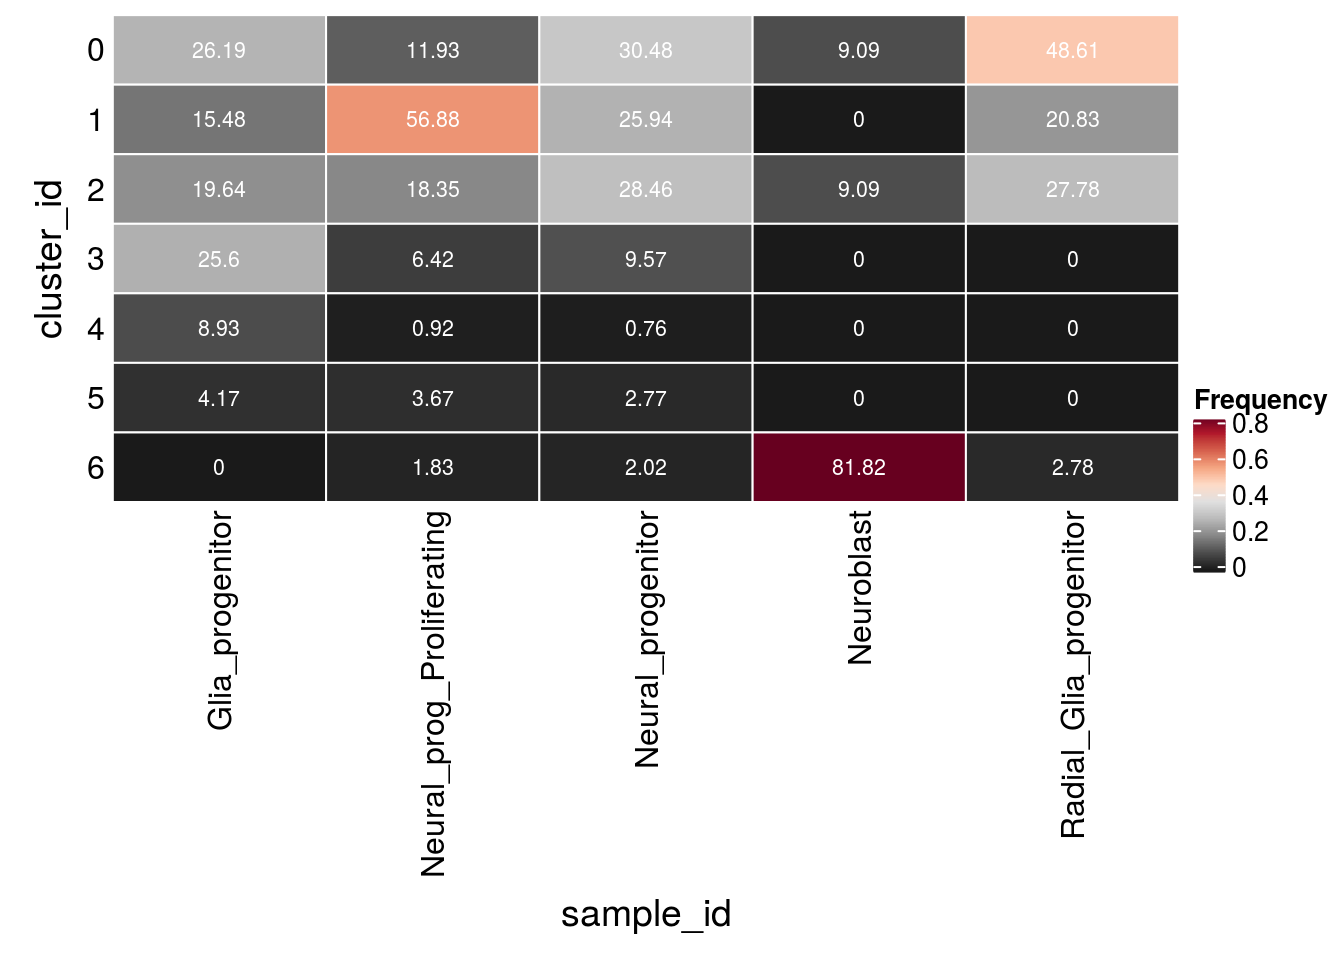
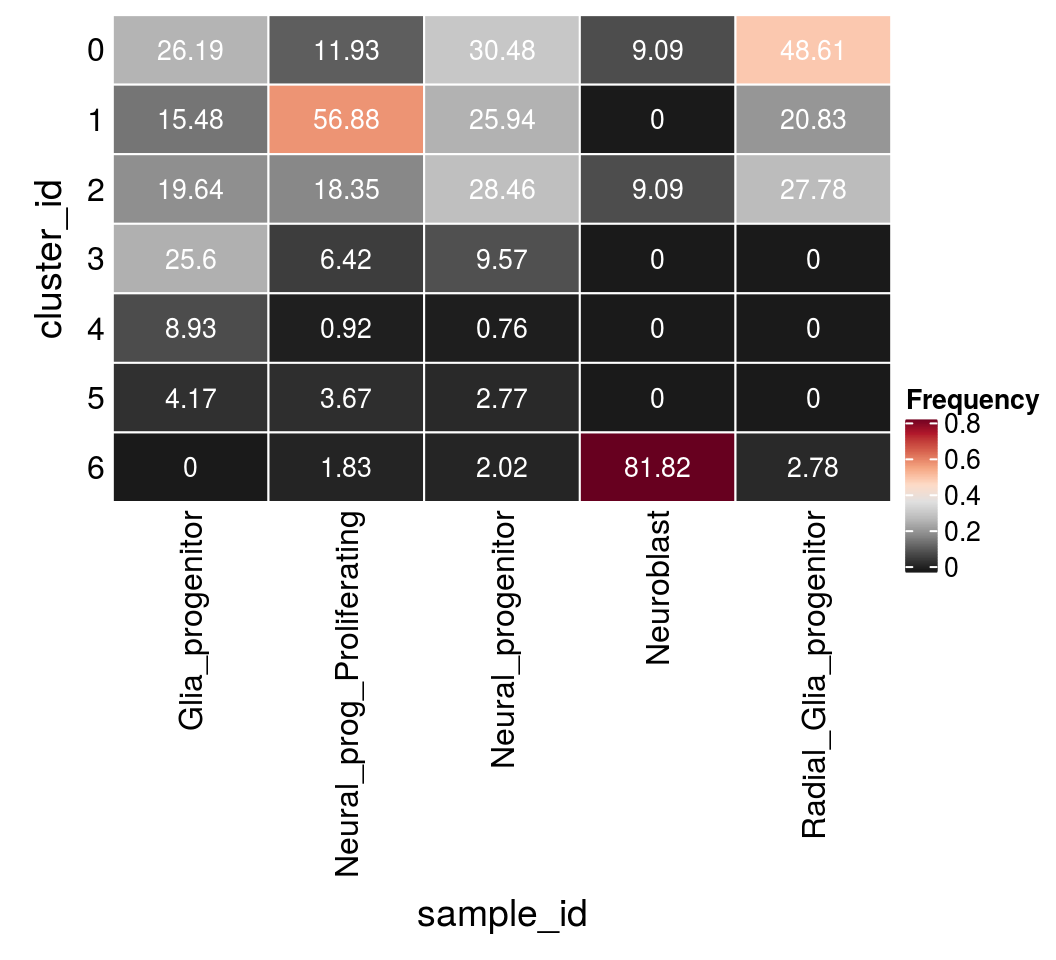
Build site.

diff --git a/docs/Lam-02-NSC_annotation.html b/docs/Lam-02-NSC_annotation.html
@@ -412,7 +412,7 @@ div.tocify {
 <div class="tab-content">
 <div id="summary" class="tab-pane fade in active">
 <p>
-<strong>Last updated:</strong> 2020-07-10
+<strong>Last updated:</strong> 2020-08-07
 </p>
 <p>
 <strong>Checks:</strong> <span class="glyphicon glyphicon-ok text-success" aria-hidden="true"></span> 7 <span class="glyphicon glyphicon-exclamation-sign text-danger" aria-hidden="true"></span> 0
@@ -503,16 +503,16 @@ This reproducible <a href="http://rmarkdown.rstudio.com">R Markdown</a> analysis
 <div class="panel panel-default">
 <div class="panel-heading">
 <p class="panel-title">
-<a data-toggle="collapse" data-parent="#workflowr-checks" href="#strongRepositoryversionstrongahrefhttpsgithubcomkhembachneuralscRNAseqtree15a0ad2b03e78da5eb656f26afde3f4463ebb7fftargetblank15a0ad2a"> <span class="glyphicon glyphicon-ok text-success" aria-hidden="true"></span> <strong>Repository version:</strong> <a href="https://github.com/khembach/neural_scRNAseq/tree/15a0ad2b03e78da5eb656f26afde3f4463ebb7ff" target="_blank">15a0ad2</a> </a>
+<a data-toggle="collapse" data-parent="#workflowr-checks" href="#strongRepositoryversionstrongahrefhttpsgithubcomkhembachneuralscRNAseqtree7562682eb1c259b241d480903f1cced850214f43targetblank7562682a"> <span class="glyphicon glyphicon-ok text-success" aria-hidden="true"></span> <strong>Repository version:</strong> <a href="https://github.com/khembach/neural_scRNAseq/tree/7562682eb1c259b241d480903f1cced850214f43" target="_blank">7562682</a> </a>
 </p>
 </div>
[2 lines of base64/hex data omitted]
 <div class="panel-body">
 <p>
 Great! You are using Git for version control. Tracking code development and connecting the code version to the results is critical for reproducibility.
 </p>
 <p>
-The results in this page were generated with repository version <a href="https://github.com/khembach/neural_scRNAseq/tree/15a0ad2b03e78da5eb656f26afde3f4463ebb7ff" target="_blank">15a0ad2</a>. See the <em>Past versions</em> tab to see a history of the changes made to the R Markdown and HTML files.
+The results in this page were generated with repository version <a href="https://github.com/khembach/neural_scRNAseq/tree/7562682eb1c259b241d480903f1cced850214f43" target="_blank">7562682</a>. See the <em>Past versions</em> tab to see a history of the changes made to the R Markdown and HTML files.
 </p>
 <p>
 Note that you need to be careful to ensure that all relevant files for the analysis have been committed to Git prior to generating the results (you can use <code>wflow_publish</code> or <code>wflow_git_commit</code>). workflowr only checks the R Markdown file, but you know if there are other scripts or data files that it depends on. Below is the status of the Git repository when the results were generated:
@@ -595,7 +595,6 @@ Untracked files:
 
 Unstaged changes:
     Modified:   analysis/_site.yml
-    Modified:   data/Lam_figure2_markers.R
 
 </code></pre>
 <p>
@@ -634,6 +633,40 @@ Message
 </tr>
 </thead>
 <tbody>
+<tr>
+<td>
+Rmd
+</td>
+<td>
+<a href="https://github.com/khembach/neural_scRNAseq/blob/7562682eb1c259b241d480903f1cced850214f43/analysis/Lam-02-NSC_annotation.Rmd" target="_blank">7562682</a>
+</td>
+<td>
+khembach
+</td>
+<td>
+2020-08-07
+</td>
+<td>
+adjust fig sizes
+</td>
+</tr>
+<tr>
+<td>
+html
+</td>
+<td>
+<a href="https://rawcdn.githack.com/khembach/neural_scRNAseq/875e3c521e9cdb673301cb7675d1e0efe8949cc8/docs/Lam-02-NSC_annotation.html" target="_blank">875e3c5</a>
+</td>
+<td>
+khembach
+</td>
+<td>
+2020-07-10
+</td>
+<td>
+Build site.
+</td>
+</tr>
 <tr>
 <td>
 Rmd
@@ -761,8 +794,8 @@ Heatmap(mat,
     rect_gp = gpar(col = &quot;white&quot;),
     cell_fun = function(i, j, x, y, width, height, fill)
         grid.text(round(mat[j, i] * 100, 2), x = x, y = y, 
-            gp = gpar(col = &quot;white&quot;, fontsize = 8)))</code></pre>
-<p><img src="figure/Lam-02-NSC_annotation.Rmd/unnamed-chunk-3-1.png" width="576" style="display: block; margin: auto;" /></p>
+            gp = gpar(col = &quot;white&quot;, fontsize = 10)))</code></pre>
+<p><img src="figure/Lam-02-NSC_annotation.Rmd/unnamed-chunk-3-1.png" width="384" style="display: block; margin: auto;" /></p>
 <p>
 <button type="button" class="btn btn-default btn-xs btn-workflowr btn-workflowr-fig" data-toggle="collapse" data-target="#fig-unnamed-chunk-3-1">
 Past versions of unnamed-chunk-3-1.png
@@ -785,6 +818,17 @@ Date
 </tr>
 </thead>
 <tbody>
+<tr>
+<td>
+<a href="https://github.com/khembach/neural_scRNAseq/blob/875e3c521e9cdb673301cb7675d1e0efe8949cc8/docs/figure/Lam-02-NSC_annotation.Rmd/unnamed-chunk-3-1.png" target="_blank">875e3c5</a>
+</td>
+<td>
+khembach
+</td>
+<td>
+2020-07-10
+</td>
+</tr>
 <tr>
 <td>
 <a href="https://github.com/khembach/neural_scRNAseq/blob/a1ebb78b453525afd0dfe7d1a4ef2bc273e3cc56/docs/figure/Lam-02-NSC_annotation.Rmd/unnamed-chunk-3-1.png" target="_blank">a1ebb78</a>
@@ -851,8 +895,8 @@ Heatmap(mat,
     rect_gp = gpar(col = &quot;white&quot;),
     cell_fun = function(i, j, x, y, width, height, fill)
         grid.text(round(mat[j, i] * 100, 2), x = x, y = y, 
-            gp = gpar(col = &quot;white&quot;, fontsize = 8)))</code></pre>
-<p><img src="figure/Lam-02-NSC_annotation.Rmd/unnamed-chunk-4-1.png" width="672" style="display: block; margin: auto;" /></p>
+            gp = gpar(col = &quot;white&quot;, fontsize = 10)))</code></pre>
+<p><img src="figure/Lam-02-NSC_annotation.Rmd/unnamed-chunk-4-1.png" width="528" style="display: block; margin: auto;" /></p>
 <p>
 <button type="button" class="btn btn-default btn-xs btn-workflowr btn-workflowr-fig" data-toggle="collapse" data-target="#fig-unnamed-chunk-4-1">
 Past versions of unnamed-chunk-4-1.png
@@ -875,6 +919,17 @@ Date
 </tr>
 </thead>
 <tbody>
+<tr>
+<td>
+<a href="https://github.com/khembach/neural_scRNAseq/blob/875e3c521e9cdb673301cb7675d1e0efe8949cc8/docs/figure/Lam-02-NSC_annotation.Rmd/unnamed-chunk-4-1.png" target="_blank">875e3c5</a>
+</td>
+<td>
+khembach
+</td>
+<td>
+2020-07-10
+</td>
+</tr>
 <tr>
 <td>
 <a href="https://github.com/khembach/neural_scRNAseq/blob/a1ebb78b453525afd0dfe7d1a4ef2bc273e3cc56/docs/figure/Lam-02-NSC_annotation.Rmd/unnamed-chunk-4-1.png" target="_blank">a1ebb78</a>
@@ -937,6 +992,17 @@ Date
 <tbody>
 <tr>
 <td>
+<a href="https://github.com/khembach/neural_scRNAseq/blob/875e3c521e9cdb673301cb7675d1e0efe8949cc8/docs/figure/Lam-02-NSC_annotation.Rmd/dim-red-1.png" target="_blank">875e3c5</a>
+</td>
+<td>
+khembach
+</td>
+<td>
+2020-07-10
+</td>
+</tr>
+<tr>
+<td>
 <a href="https://github.com/khembach/neural_scRNAseq/blob/a1ebb78b453525afd0dfe7d1a4ef2bc273e3cc56/docs/figure/Lam-02-NSC_annotation.Rmd/dim-red-1.png" target="_blank">a1ebb78</a>
 </td>
 <td>
@@ -978,6 +1044,17 @@ Date
 <tbody>
 <tr>
 <td>
+<a href="https://github.com/khembach/neural_scRNAseq/blob/875e3c521e9cdb673301cb7675d1e0efe8949cc8/docs/figure/Lam-02-NSC_annotation.Rmd/dim-red-2.png" target="_blank">875e3c5</a>
+</td>
+<td>
+khembach
+</td>
+<td>
+2020-07-10
+</td>
+</tr>
+<tr>
+<td>
 <a href="https://github.com/khembach/neural_scRNAseq/blob/a1ebb78b453525afd0dfe7d1a4ef2bc273e3cc56/docs/figure/Lam-02-NSC_annotation.Rmd/dim-red-2.png" target="_blank">a1ebb78</a>
 </td>
 <td>
@@ -1017,6 +1094,17 @@ Date
 </tr>
 </thead>
 <tbody>
+<tr>
+<td>
+<a href="https://github.com/khembach/neural_scRNAseq/blob/875e3c521e9cdb673301cb7675d1e0efe8949cc8/docs/figure/Lam-02-NSC_annotation.Rmd/dim-red-3.png" target="_blank">875e3c5</a>
+</td>
+<td>
+khembach
+</td>
+<td>
+2020-07-10
+</td>
+</tr>
 <tr>
 <td>
 <a href="https://github.com/khembach/neural_scRNAseq/blob/a1ebb78b453525afd0dfe7d1a4ef2bc273e3cc56/docs/figure/Lam-02-NSC_annotation.Rmd/dim-red-3.png" target="_blank">a1ebb78</a>
@@ -1120,6 +1208,17 @@ Date
 </tr>
 </thead>
 <tbody>
+<tr>
+<td>
+<a href="https://github.com/khembach/neural_scRNAseq/blob/875e3c521e9cdb673301cb7675d1e0efe8949cc8/docs/figure/Lam-02-NSC_annotation.Rmd/known-markers-heatmap-1.png" target="_blank">875e3c5</a>
+</td>
+<td>
+khembach
+</td>
+<td>
+2020-07-10
+</td>
+</tr>
 <tr>
 <td>
 <a href="https://github.com/khembach/neural_scRNAseq/blob/a1ebb78b453525afd0dfe7d1a4ef2bc273e3cc56/docs/figure/Lam-02-NSC_annotation.Rmd/known-markers-heatmap-1.png" target="_blank">a1ebb78</a>
